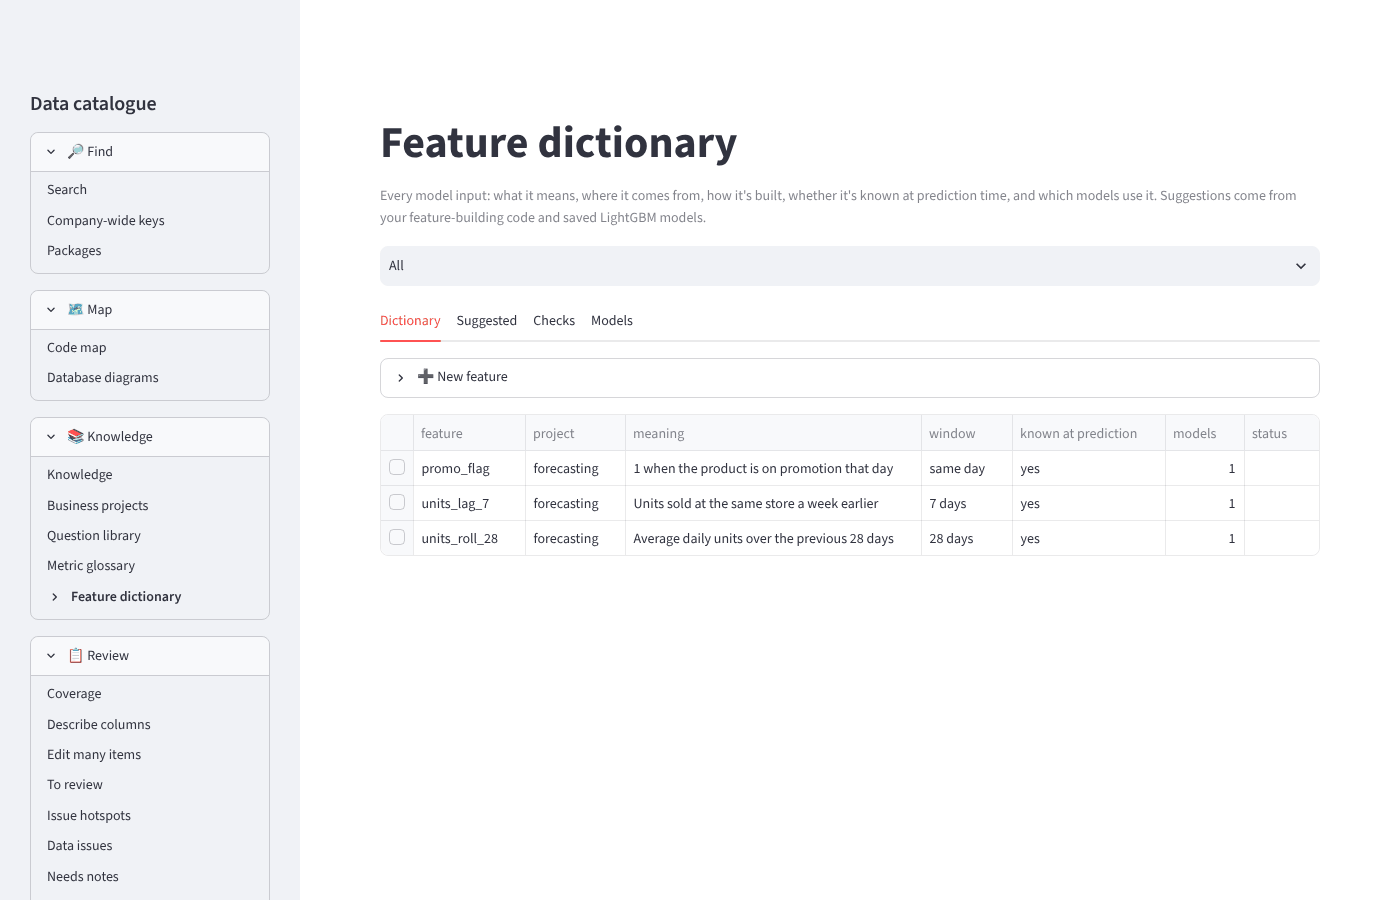
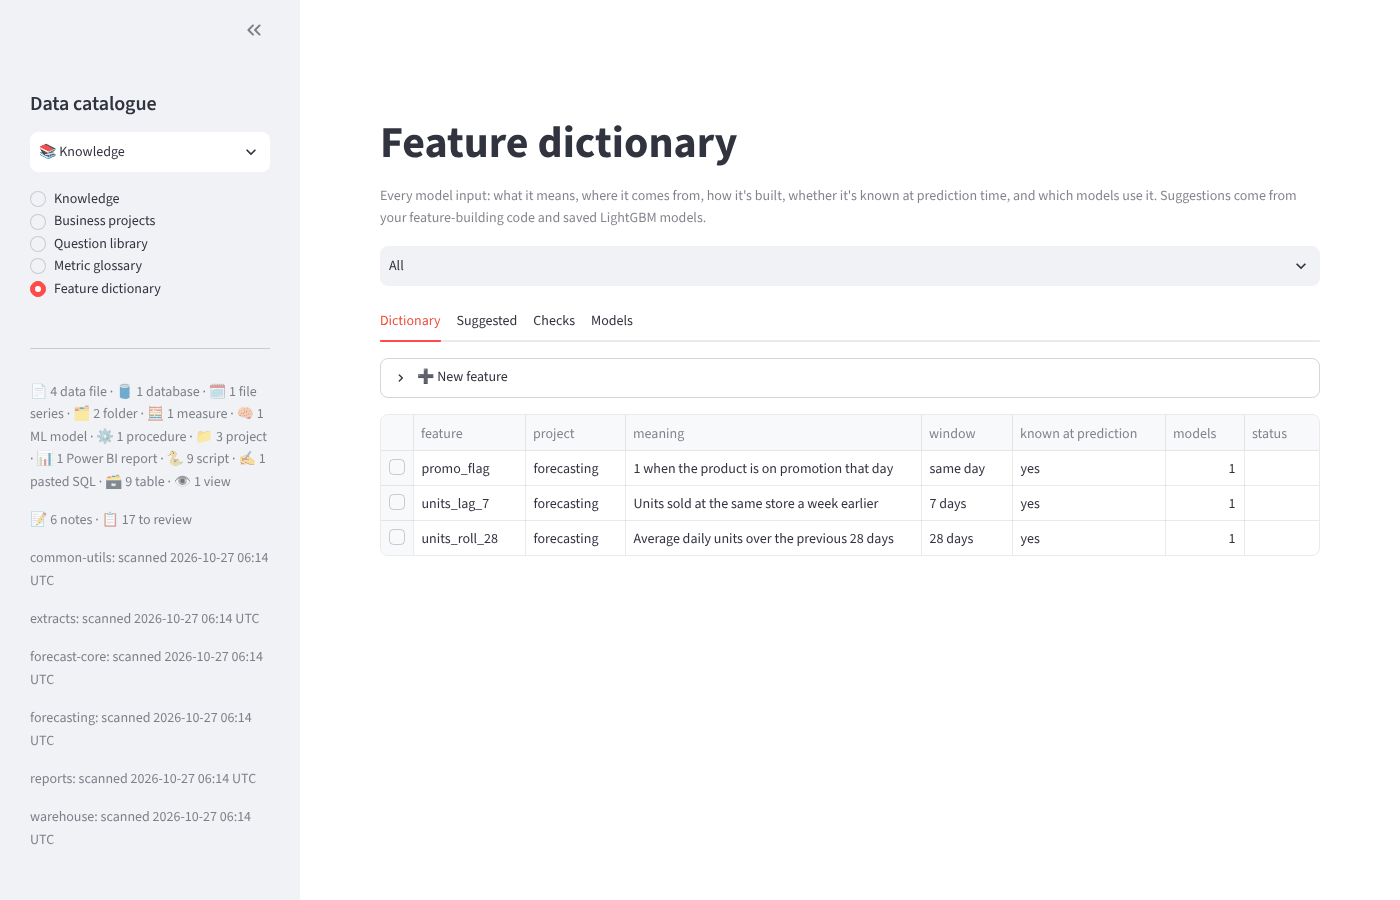
Keep the sidebar menu as it was, and make a menu pick leave an item page
The menu goes back to the section picker. Picking a section or page now
closes an open item page, so the page you picked shows. Before, the pick
did nothing while an item was open. Screenshots are back to the menu as it
was.

Claude-Session: https://claude.ai/code/session_01WWGYwrkya9hSXgcDnc8cSP

Changed region(s): [[0.0, 0.1556, 0.1843, 0.8711], [0.0307, 0.9022, 0.1843, 0.9956]]

diff --git a/src/pdcat/ui/main.py b/src/pdcat/ui/main.py
@@ -1,4 +1,4 @@
-"""Page layout: the whole menu in the sidebar, grouped by section, and an item page when one is open."""
+"""Page layout: a section picker and a page list in the sidebar, an item page when one is open."""
 from __future__ import annotations
 
 from typing import Callable
@@ -20,7 +20,6 @@ def sections() -> dict[str, dict[str, Page]]:
     return {
         "🔎 Find": {"Search": search.search_page, "Company-wide keys": keys_pages.keys_page,
                    "Packages": code.packages_page},
-        "🗺 Map": {"Code map": code.code_map_page, "Database diagrams": erd_page.erd_page},
         "📚 Knowledge": {"Knowledge": knowledge_pages.knowledge_page, "Business projects": bproject_pages.bprojects_page,
                         "Question library": knowledge_pages.questions_page,
                         "Metric glossary": knowledge_pages.metrics_page, "Feature dictionary": ml_pages.features_page},
@@ -30,6 +29,7 @@ def sections() -> dict[str, dict[str, Page]]:
                      "Recent notes": search.recent_notes_page, "Unmatched tables": search.unmatched_page,
                      "Unlinked data": lists.unlinked_page, "Recent changes": lists.changes_page,
                      "Sensitive data": keys_pages.sensitive_page, "Duplicates": lists.duplicates_page},
+        "🗺 Map": {"Code map": code.code_map_page, "Database diagrams": erd_page.erd_page},
         "➕ Add": {"Add SQL": sources.add_sql_page, "Data folders": sources.folders_page,
                   "SQL scanning": scanning.scanning_page},
         "📤 Share": {"Share with colleagues": share.sharing_page, "Copilot pack": share.copilot_page,
@@ -42,44 +42,22 @@ NEEDS_DATA = {"Search", "Data issues", "Needs notes", "Recent notes", "Unmatched
               "Describe columns", "Edit many items"}
 
 
-# Tight rows for the menu: Streamlit spaces buttons for forms, not for a list of links.
-MENU_CSS = """<style>
-[data-testid="stSidebar"] [data-testid="stExpander"] [data-testid="stVerticalBlock"] { gap: 0; }
-[data-testid="stSidebar"] [data-testid="stExpander"] button { min-height: 1.9rem; padding: 0.1rem 0; }
-[data-testid="stSidebar"] [data-testid="stExpander"] details > div { padding-top: 0.2rem; padding-bottom: 0.4rem; }
-</style>"""
-
-
-def open_page(name: str) -> None:
-    """Show a menu page, leaving any item page that is open. The page name goes in the link, so a refresh
-    or a bookmark comes back to it."""
-    st.session_state["nav-page"] = name
+def leave_item() -> None:
+    """Picking a page from the menu closes the item page that is open, so the page shows."""
     st.query_params.pop("asset", None)
     st.query_params.pop("fn", None)
-    st.query_params["page"] = name
-
-
-def current_page(secs: dict[str, dict[str, Page]]) -> str:
-    names = {n for pages in secs.values() for n in pages}
-    name = st.session_state.get("nav-page") or st.query_params.get("page")
-    return name if name in names else "Search"
 
 
 def sidebar(cat: Catalogue) -> tuple[str, Page]:
     from pdcat.review import count_open
     secs = sections()
-    name = current_page(secs)
-    on_item = bool(st.query_params.get("asset"))
     with st.sidebar:
         st.header("Data catalogue")
-        st.html(MENU_CSS)
-        # Every page is listed, so nothing hides behind a picker. Fold away the sections you don't use.
-        for section, pages in secs.items():
-            with st.expander(section, expanded=True):
-                for page in pages:
-                    here = page == name and not on_item
-                    st.button(f"**{page}**" if here else page, key=f"nav-{page}", on_click=open_page,
-                              args=(page,), type="tertiary", icon=":material/chevron_right:" if here else None)
+        section = st.selectbox("Section", list(secs), key="nav-section", label_visibility="collapsed",
+                               on_change=leave_item)
+        pages = secs[section]
+        page = st.radio("Page", list(pages), key=f"nav-{section}", label_visibility="collapsed",
+                        on_change=leave_item)
         st.divider()
         stats = cat.stats()
         kinds = stats["kinds"]
@@ -88,7 +66,7 @@ def sidebar(cat: Catalogue) -> tuple[str, Page]:
         st.caption(f"📝 {stats['notes']} notes · 📋 {count_open(cat)} to review")
         for source, at in stats["last_scans"].items():
             st.caption(f"{source}: scanned {at[:16].replace('T', ' ')} UTC")
-    return name, next(pages[name] for pages in secs.values() if name in pages)
+    return page, pages[page]
 
 
 def session_start(cat: Catalogue) -> None:

diff --git a/tests/test_app.py b/tests/test_app.py
@@ -11,8 +11,11 @@ SALES = "sql://warehouse/forecastdb/dbo.salesdaily"
 
 
 def goto(app, page: str):
-    """Pick a page from the sidebar menu."""
-    app.sidebar.button(key=f"nav-{page}").click().run()
+    """Pick a page from the sidebar: its section first, then the page."""
+    from pdcat.ui.main import sections
+    section = next(name for name, pages in sections().items() if page in pages)
+    app.sidebar.selectbox(key="nav-section").set_value(section).run()
+    app.sidebar.radio(key=f"nav-{section}").set_value(page).run()
     return app
 
 
@@ -227,13 +230,9 @@ def test_report_workbook_and_measure_pages(app, catalogue, tmp_path):
     assert list_metrics(catalogue)[0]["from_measure"] == measure
 
 
-def test_menu_lists_every_page_and_leaves_an_item_page(app):
-    from pdcat.ui.main import sections
+def test_menu_leaves_an_item_page(app):
     app.query_params["asset"] = SALES
     app.run()
-    assert not app.exception
-    shown = {b.key for b in app.sidebar.button}
-    assert {f"nav-{p}" for pages in sections().values() for p in pages} <= shown  # nothing hidden behind a picker
     goto(app, "Code map")
     assert not app.exception
     assert "asset" not in app.query_params and app.title[0].value == "Code map"

diff --git a/README.md b/README.md
@@ -166,10 +166,6 @@ http.response.start", which comes from older Streamlit clashing with a newer Sta
 To update just Streamlit: `pip install -U "streamlit>=1.62"` (or
 `conda install -c conda-forge "streamlit>=1.62"` in a conda environment).
 
-Every page from version 1 is still there. The sidebar now groups them: **Find** (Search),
-**Map** (Code map), **Review** (To review, Issue hotspots, Data issues, Needs notes,
-Recent notes, Unmatched tables) and **Add** (Add SQL, Data folders).
-
 ## What it does
 
 - **Scans SQL Server** with your Windows login: tables, views and stored procedures,
